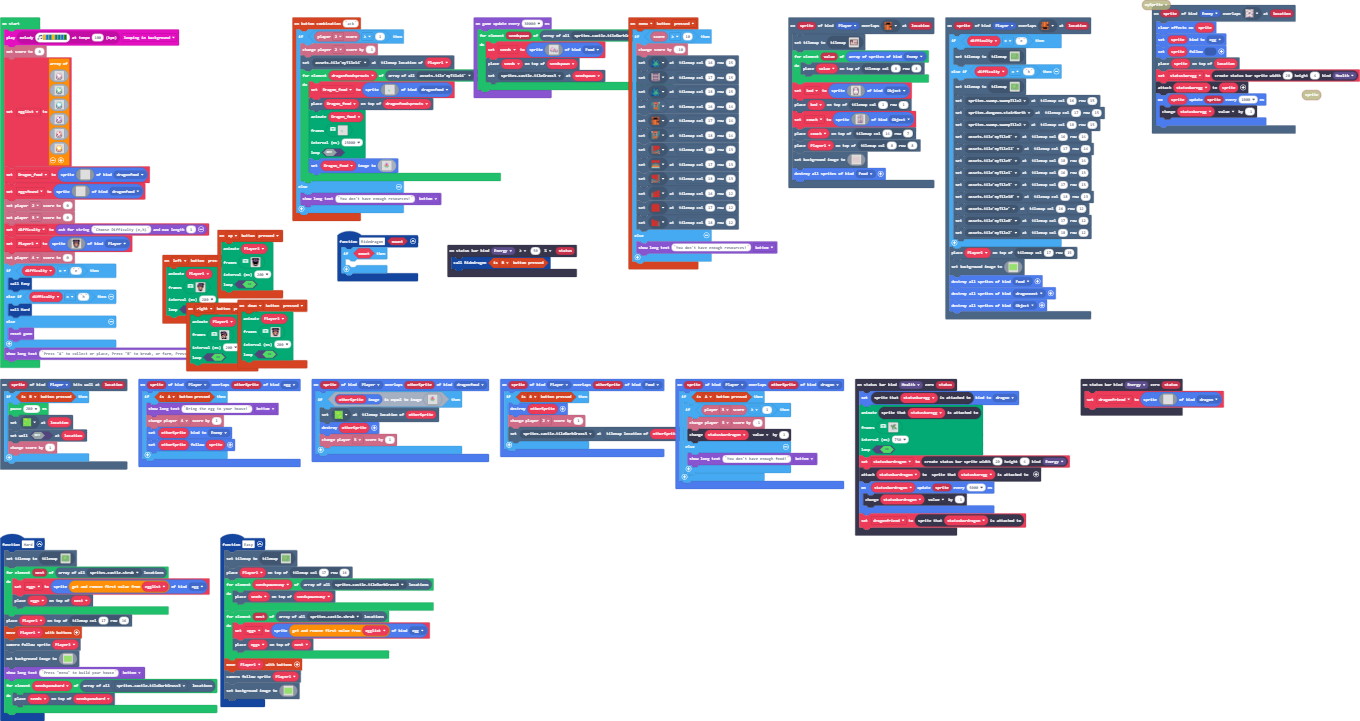
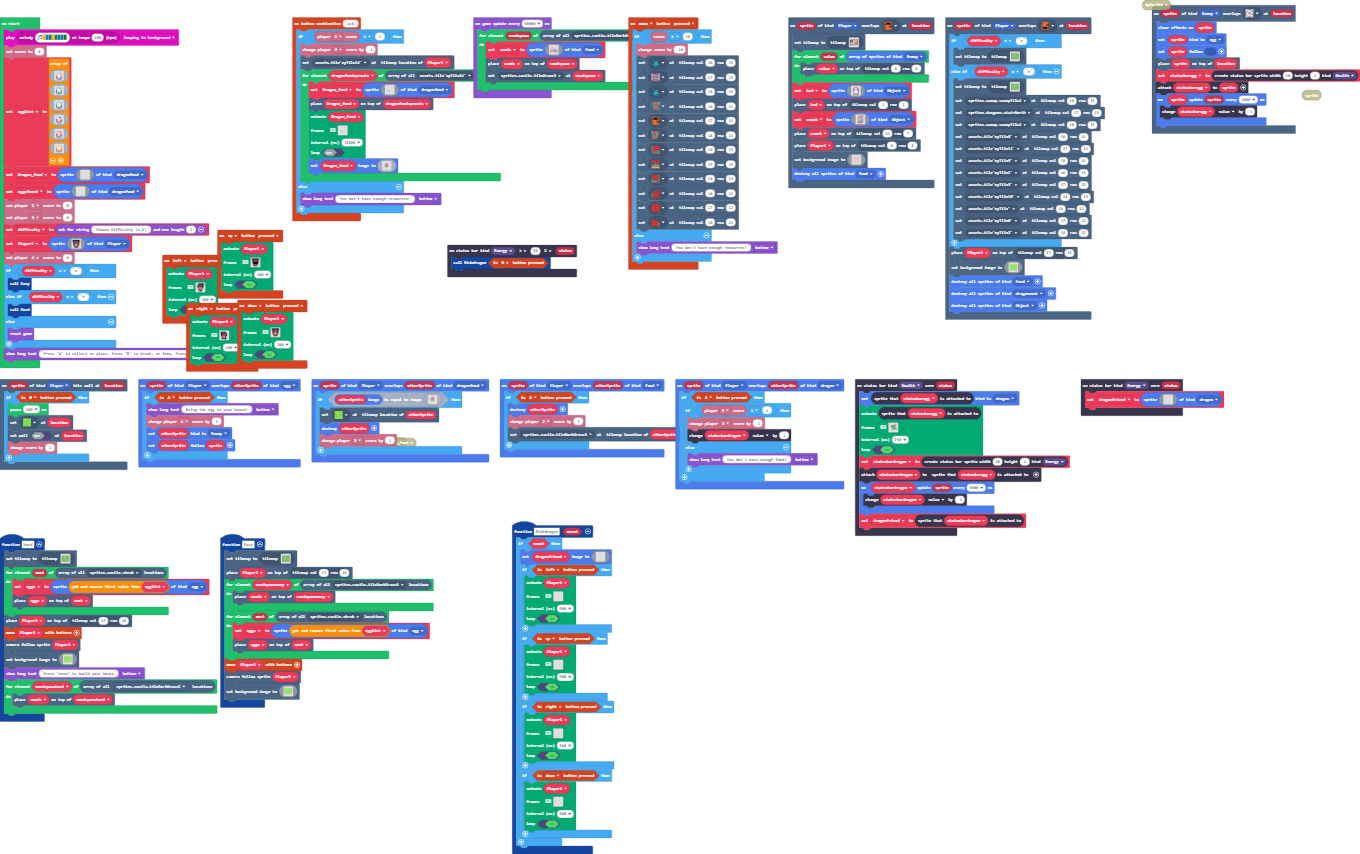
Began animations for flying the dragon

diff --git a/main.ts b/main.ts
@@ -884,7 +884,124 @@ function Hard () {
 }
 function Ridedragon (mount: boolean) {
     if (mount) {
-    	
+        dragonfriend.setImage(img`
+            . . . . . . . . . . . . . . . . 
+            . . . . . . . . . . . . . . . . 
+            . . . . . . . . . . . . . . . . 
+            . . . . . . . . . . . . . . . . 
+            . . . . . . . . . . . . . . . . 
+            . . . . . . . . . . . . . . . . 
+            . . . . . . . . . . . . . . . . 
+            . . . . . . . . . . . . . . . . 
+            . . . . . . . . . . . . . . . . 
+            . . . . . . . . . . . . . . . . 
+            . . . . . . . . . . . . . . . . 
+            . . . . . . . . . . . . . . . . 
+            . . . . . . . . . . . . . . . . 
+            . . . . . . . . . . . . . . . . 
+            . . . . . . . . . . . . . . . . 
+            . . . . . . . . . . . . . . . . 
+            `)
+        if (controller.left.isPressed()) {
+            animation.runImageAnimation(
+            Player1,
+            [img`
+                . . . . . . . . . . . . . . . . 
+                . . . . . . . . . . . . . . . . 
+                . . . . . . . . . . . . . . . . 
+                . . . . . . . . . . . . . . . . 
+                . . . . . . . . . . . . . . . . 
+                . . . . . . . . . . . . . . . . 
+                . . . . . . . . . . . . . . . . 
+                . . . . . . . . . . . . . . . . 
+                . . . . . . . . . . . . . . . . 
+                . . . . . . . . . . . . . . . . 
+                . . . . . . . . . . . . . . . . 
+                . . . . . . . . . . . . . . . . 
+                . . . . . . . . . . . . . . . . 
+                . . . . . . . . . . . . . . . . 
+                . . . . . . . . . . . . . . . . 
+                . . . . . . . . . . . . . . . . 
+                `],
+            500,
+            true
+            )
+        }
+        if (controller.up.isPressed()) {
+            animation.runImageAnimation(
+            Player1,
+            [img`
+                . . . . . . . . . . . . . . . . 
+                . . . . . . . . . . . . . . . . 
+                . . . . . . . . . . . . . . . . 
+                . . . . . . . . . . . . . . . . 
+                . . . . . . . . . . . . . . . . 
+                . . . . . . . . . . . . . . . . 
+                . . . . . . . . . . . . . . . . 
+                . . . . . . . . . . . . . . . . 
+                . . . . . . . . . . . . . . . . 
+                . . . . . . . . . . . . . . . . 
+                . . . . . . . . . . . . . . . . 
+                . . . . . . . . . . . . . . . . 
+                . . . . . . . . . . . . . . . . 
+                . . . . . . . . . . . . . . . . 
+                . . . . . . . . . . . . . . . . 
+                . . . . . . . . . . . . . . . . 
+                `],
+            500,
+            true
+            )
+        }
+        if (controller.right.isPressed()) {
+            animation.runImageAnimation(
+            Player1,
+            [img`
+                . . . . . . . . . . . . . . . . 
+                . . . . . . . . . . . . . . . . 
+                . . . . . . . . . . . . . . . . 
+                . . . . . . . . . . . . . . . . 
+                . . . . . . . . . . . . . . . . 
+                . . . . . . . . . . . . . . . . 
+                . . . . . . . . . . . . . . . . 
+                . . . . . . . . . . . . . . . . 
+                . . . . . . . . . . . . . . . . 
+                . . . . . . . . . . . . . . . . 
+                . . . . . . . . . . . . . . . . 
+                . . . . . . . . . . . . . . . . 
+                . . . . . . . . . . . . . . . . 
+                . . . . . . . . . . . . . . . . 
+                . . . . . . . . . . . . . . . . 
+                . . . . . . . . . . . . . . . . 
+                `],
+            500,
+            true
+            )
+        }
+        if (controller.down.isPressed()) {
+            animation.runImageAnimation(
+            Player1,
+            [img`
+                . . . . . . . . . . . . . . . . 
+                . . . . . . . . . . . . . . . . 
+                . . . . . . . . . . . . . . . . 
+                . . . . . . . . . . . . . . . . 
+                . . . . . . . . . . . . . . . . 
+                . . . . . . . . . . . . . . . . 
+                . . . . . . . . . . . . . . . . 
+                . . . . . . . . . . . . . . . . 
+                . . . . . . . . . . . . . . . . 
+                . . . . . . . . . . . . . . . . 
+                . . . . . . . . . . . . . . . . 
+                . . . . . . . . . . . . . . . . 
+                . . . . . . . . . . . . . . . . 
+                . . . . . . . . . . . . . . . . 
+                . . . . . . . . . . . . . . . . 
+                . . . . . . . . . . . . . . . . 
+                `],
+            500,
+            true
+            )
+        }
     }
 }
 statusbars.onZero(StatusBarKind.Energy, function (status) {
